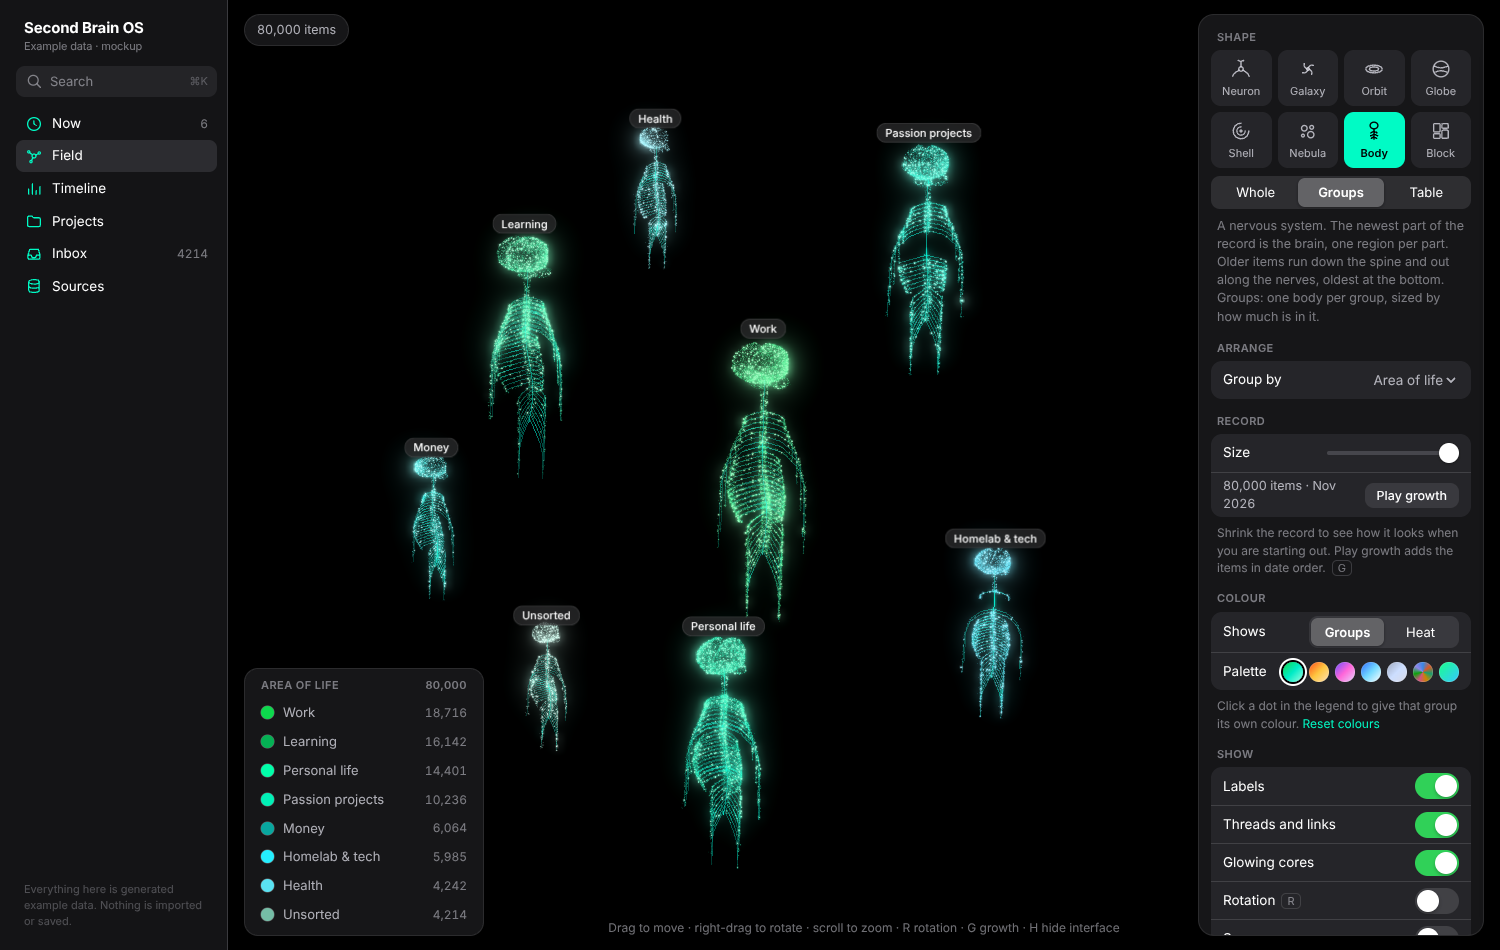
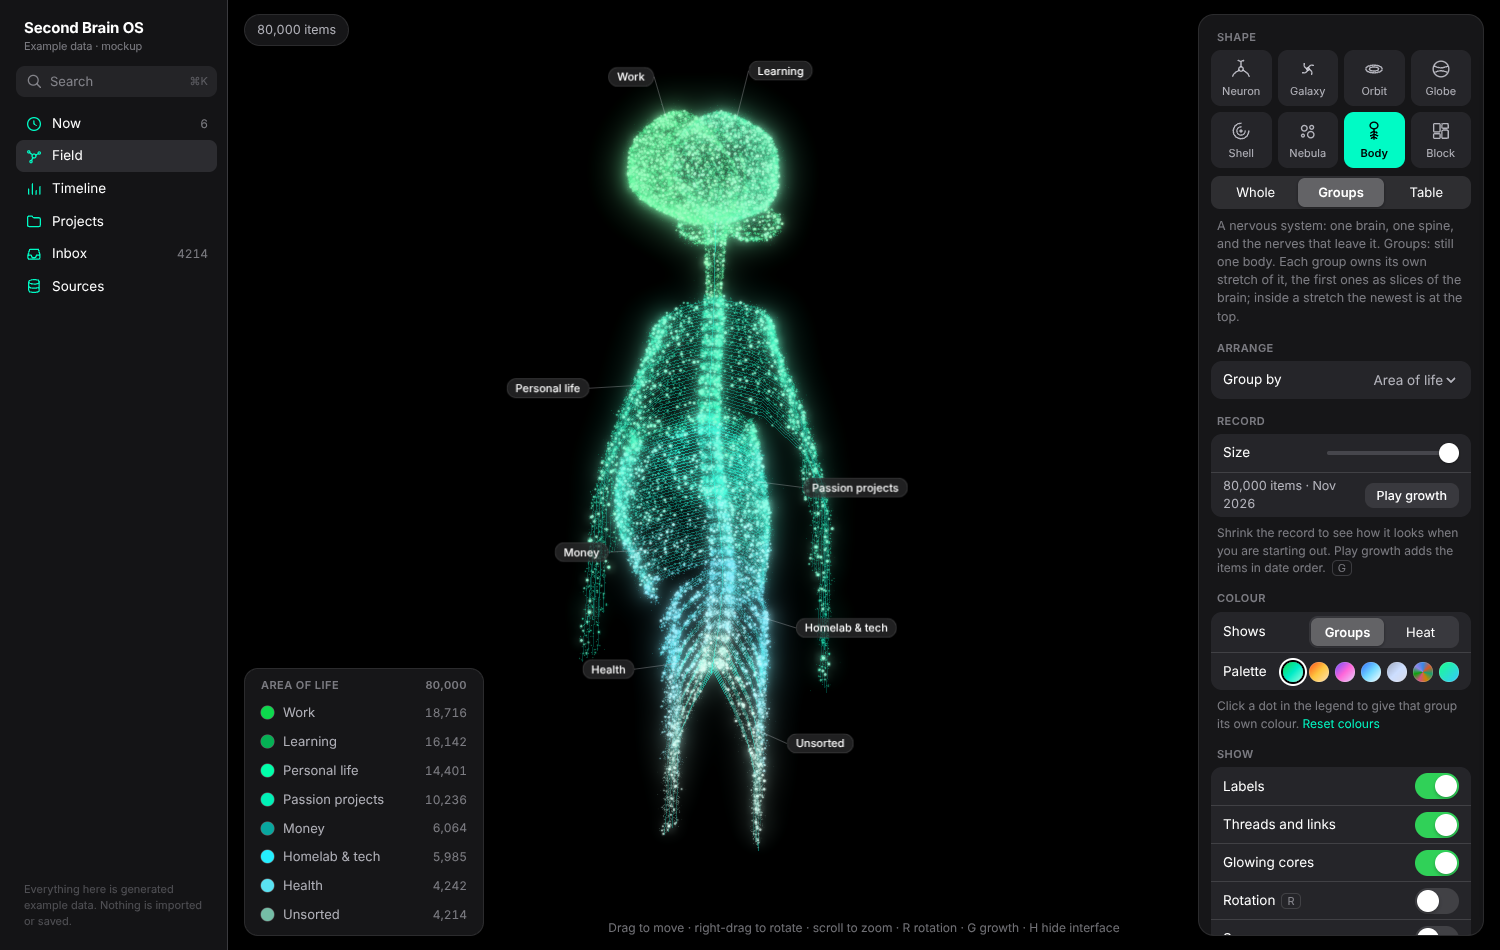
Second Brain OS mockup: Body is one body in every layout
Groups now gives each group its own stretch of the single body (leading
groups as slices of the brain, the rest down the spine). Table lays the
body flat as a chart: groups run down it, the second property runs
outward from the spine. Labels can be pinned with a line back to what
they name.

Claude-Session: https://claude.ai/code/session_01QQiybXZrdU5CyeFzxcWoFW

diff --git a/artifacts/second-brain-os.html b/artifacts/second-brain-os.html
@@ -573,27 +573,53 @@ const SH = {
     const stem = (f, o) => { const c = cen(0); o[0] = c[0]*f; o[1] = BY-0.1+(c[1]-BY+0.1)*f; o[2] = -0.05+(c[2]+0.05)*f; return o; }, q0 = [0, 0, 0], q1 = [0, 0, 0];
     for(let k=0;k<6;k++) seg(it, stem(k/6, q0).slice(), stem((k+1)/6, q1).slice(), 0.8);
     const has = new Uint8Array(NV*n); let vTop = NV;
-    for(let j=0;j<n;j++){ const d0 = fib(j, n), sp = n === 1 ? 9 : 0.3+0.95*Math.sqrt(P.share[j]);
-      for(const i of P.items[j]){
-        if(iTm[i] >= tCut){ const w = R(); let px = 0, py = BY, pz = 0;
+    const inBrain = (i, d0, sp, lo, hi) => { const w = R(); let px = 0, py = BY, pz = 0;
           if(w < 0.09){ const sd = R() < 0.5 ? -1 : 1, u = unit3([gauss(), gauss(), gauss()]), rr = 0.82+0.18*R(); px = sd*0.07+u[0]*0.085*rr; py = BY-0.115+Math.round(u[1]*0.05*rr*90)/90+gauss()*0.0015; pz = -0.14+u[2]*0.075*rr; if(px*sd < 0.004) px = sd*0.004; }      // cerebellum: two small leaves, finely layered
           else if(w < 0.13){ const f = R(), a = R()*TAU, rr = 0.034*(1-0.4*f)*(0.85+0.15*R()); stem(f, q0); px = q0[0]+Math.cos(a)*rr; py = q0[1]; pz = q0[2]+Math.sin(a)*rr; }                                          // brainstem
-          else for(let tr=0;tr<8;tr++){ let x = d0[0]+gauss()*sp, y = d0[1]*0.8+gauss()*sp, z = d0[2]+gauss()*sp; const l = Math.hypot(x, y, z) || 1; x /= l; y /= l; z /= l;                                  // cortex: a folded shell with two unequal halves; each part is a region of it
+          else for(let tr=0;tr<8;tr++){ let x, y, z; if(lo !== undefined){ x = lo+R()*(hi-lo); const rr = Math.sqrt(Math.max(0, 1-x*x)), ph = R()*TAU; y = rr*Math.cos(ph); z = rr*Math.sin(ph); } else { x = d0[0]+gauss()*sp; y = d0[1]*0.8+gauss()*sp; z = d0[2]+gauss()*sp; const l = Math.hypot(x, y, z) || 1; x /= l; y /= l; z /= l; }                                  // cortex: a folded shell with two unequal halves; each part is a region of it
             const sd = x < 0 ? -1 : 1, lump = 1+0.2*(vnoise(x*1.7+sd*13.7+3, y*1.7+5, z*1.7+8)-0.5), dip = 1-0.3*Math.exp(-(x*x)/0.02)*(y > 0 ? 1 : 0.3), nar = y < 0 ? 1-0.3*y*y : 1;
             const sx = x*0.2*(sd < 0 ? 1.05 : 0.97)*lump*nar, sy = y*0.17*(y < 0 ? 0.72+0.2*x*x : 1)*lump*dip, sz = z*0.25*lump*(1+0.06*sd*z);
             const nz = 0.6*vnoise(sx*22+sd*31.7, sy*22+5.2, sz*18+9.4)+0.4*vnoise(sx*47+3, sy*47+1, sz*40+7), rd = Math.min(Math.abs(nz-0.36), Math.abs(nz-0.5), Math.abs(nz-0.64)), deep = R() < 0.12, sh = deep ? 0.4+0.5*Math.sqrt(R()) : 0.95+0.05*R();
             px = sx*sh; if(Math.abs(px) < 0.015) px = sd*(0.015+Math.abs(gauss())*0.004); py = BY+sy*sh; pz = sz*sh+0.01; if(deep || rd >= 0.016 || R() > 0.95) break; }
-          put(i, it, px, py, pz); continue; }
-        const v = Math.min(NV-1, Math.floor((1-(iTm[i]-t0)/span)*NV)), q = R(); has[v*n+j] = 1; if(v < vTop) vTop = v; const g = n === 1 ? R() : j/n+R()*0.8/n, sd = R() < 0.5 ? -1 : 1;          // spine: one vertebra per stretch of time
+          put(i, it, px, py, pz); };
+    const inSpine = (i, v, g) => { const q = R(), sd = R() < 0.5 ? -1 : 1;
         if(q < 0.2){ const c = cen(v+R()*0.55), a = R()*TAU, rr = 0.024*(0.8+0.4*R())*(1+0.4*v/NV); put(i, it, c[0]+Math.cos(a)*rr, c[1]+gauss()*0.004, c[2]+Math.sin(a)*rr*0.8); }
         else if(q < 0.26){ const c = cen(v+R()*0.55), f = R(); put(i, it, c[0]+gauss()*0.004, c[1]-f*0.018, c[2]-0.03-f*0.04); }
-        else { root(v, sd, g, Math.pow(R(), 0.8), q0); put(i, it, q0[0]+gauss()*0.0035, q0[1]+gauss()*0.0035, q0[2]+gauss()*0.0035); } }
+        else { root(v, sd, g, Math.pow(R(), 0.8), q0); put(i, it, q0[0]+gauss()*0.0035, q0[1]+gauss()*0.0035, q0[2]+gauss()*0.0035); } };
+    if(it.mode === "groups" && n > 1){ const ord = [...Array(n).keys()]; if(S.by === "year") ord.sort((x, y) => P.ord[y]-P.ord[x]);      // still one body: each group owns its own stretch of it, the first ones in the brain
+      let k = 1, cum = 0, best = 9, tot = 0; for(let q=0;q<n-1;q++){ cum += P.share[ord[q]]; if(Math.abs(cum-0.4) < best){ best = Math.abs(cum-0.4); k = q+1; tot = cum; } }
+      let a = 0, xa = -1; ord.forEach((j, q) => { const items = P.items[j].slice().sort((x, y) => iTm[y]-iTm[x]), sh = P.share[j];
+        if(q < k){ const xb = q === k-1 ? 1 : xa+2*sh/tot, xm = (xa+xb)/2; for(const i of items) inBrain(i, null, 0, xa, xb); partLabel(it, P, j, xm*0.2, BY+0.15*Math.sqrt(Math.max(0, 1-xm*xm))+0.01, 0.06, {lead:W(it, xm*0.08, BY-0.12, 0)}); xa = xb; return; }      // brain: slices from left to right, sized by share
+        const b = a+sh/(1-tot), len = items.length; items.forEach((i, x) => { const tv = Math.min(NV-1e-3, (a+(x+R())/len*(b-a))*NV), v = Math.floor(tv); inSpine(i, v, tv-v); });      // spine: a stretch per group, newest at its top
+        const vm = Math.min(NV-1, Math.floor((a+b)/2*NV)), sd = (q-k) % 2 ? 1 : -1, tip = root(vm, sd, 0.5, 0.4, [0, 0, 0]); partLabel(it, P, j, tip[0], tip[1], tip[2]+0.03, {lead:W(it, 0, tip[1]+0.02, tip[2]), solid:true});
+        a = b; });
+      for(let v=0;v<NV;v++){ seg(it, cen(v), cen(v+1), 0.9); for(const g of [0.12, 0.37, 0.62, 0.87]) for(const sd of [-1, 1]){ let p = cen(v); p[1] -= g*DY; for(let q=1;q<=5;q++){ const e = root(v, sd, g, q/5, [0, 0, 0]); seg(it, p, e, 0.42-0.06*q); p = e; } } }
+      return; }
+    for(let j=0;j<n;j++){ const d0 = fib(j, n), sp = n === 1 ? 9 : 0.3+0.95*Math.sqrt(P.share[j]);
+      for(const i of P.items[j]){ if(iTm[i] >= tCut){ inBrain(i, d0, sp); continue; }
+        const v = Math.min(NV-1, Math.floor((1-(iTm[i]-t0)/span)*NV)); has[v*n+j] = 1; if(v < vTop) vTop = v; inSpine(i, v, n === 1 ? R() : j/n+R()*0.8/n); }      // spine: one vertebra per stretch of time
       partLabel(it, P, j, d0[0]*0.2, BY+d0[1]*0.8*0.17, d0[2]*0.25, {lead:W(it, 0, BY, 0)}); }
     for(let v=vTop;v<NV;v++){ seg(it, cen(v), cen(v+1), 0.9);                                     // a nerve is drawn only once it holds something
       for(let j=0;j<n;j++){ if(!has[v*n+j]) continue; for(const sd of [-1, 1]){ const g = n === 1 ? 0.5 : j/n; let p = cen(v); p[1] -= g*DY; for(let q=1;q<=5;q++){ const e = root(v, sd, g, q/5, [0, 0, 0]); seg(it, p, e, 0.42-0.06*q); p = e; } } } }
     for(let v=0;v<vTop;v++) seg(it, cen(v), cen(v+1), 0.9);
     if(it.whole){ const my = tm => MON[Math.floor(tm) % 12]+" "+(2021+Math.floor(tm/12)); labels.push({t:"Brain · since "+my(tCut), p:W(it, 0.3, BY+0.24, 0), c:"yr"});
       for(let yv=Math.ceil(t0/12);yv*12<tCut;yv++) labels.push({t:String(2021+yv), p:W(it, -0.42, 0.42-(1-(yv*12-t0)/span)*1.04, 0), c:"yr", right:true}); } },
+  bodyflat(it){ const g = GROUPS[S.by], ac = ACROSS[S.across], cnt = groupStats(), rows = [...Array(cnt.length).keys()].filter(k => cnt[k]); if(S.by === "year") rows.reverse(); else if(S.by !== "status") rows.sort((x, y) => cnt[y]-cnt[x]);      // one body laid flat: groups run down it, the second property runs outward from the spine
+    const cc = new Int32Array(ac.meta.length); for(const i of it.items) cc[ac.of(i)]++; const cols = [...Array(cc.length).keys()].filter(k => cc[k]), nr = rows.length, nc = cols.length, ri = new Int32Array(cnt.length), ci = new Int32Array(cc.length); rows.forEach((k, j) => ri[k] = j); cols.forEach((k, j) => ci[k] = j);
+    const sm = x => { x = clamp(x, 0, 1); return x*x*(3-2*x); }, YT = 0.925, YB = -1, M = 400, C = [it.cx, it.cy, it.cz, it.r];
+    const wOf = y => y > 0.56 ? Math.max(0.05, 0.215*Math.sqrt(Math.max(0, 1-Math.pow((y-0.745)/0.185, 2)))) : y > 0.44 ? 0.05 : y > 0.3 ? 0.05+0.28*sm((0.44-y)/0.14) : y > -0.3 ? 0.33-0.12*sm((0.3-y)/0.6) : y > -0.48 ? 0.21+0.04*sm((-0.3-y)/0.18) : 0.25-0.15*(-0.48-y)/0.52;      // half-width of the outline: head, neck, shoulders, waist, hips, legs
+    const gOf = y => y > -0.5 ? 0.012 : 0.012+0.035*sm((-0.5-y)/0.25), A = new Float32Array(M+1); for(let q=0;q<M;q++){ const y = YT+(YB-YT)*(q+0.5)/M; A[q+1] = A[q]+Math.max(0, wOf(y)-gOf(y)); }
+    const yAt = a => { let lo = 0, hi = M; while(hi-lo > 1){ const m = (lo+hi) >> 1; if(A[m] <= a) lo = m; else hi = m; } return YT+(YB-YT)*(lo+(a-A[lo])/Math.max(1e-9, A[lo+1]-A[lo]))/M; };      // rows take height in proportion to their share of the outline's area
+    const n = it.items.length, edge = [0]; let acc = 0; rows.forEach(k => { acc += cnt[k]/n; edge.push(Math.min(1, acc)*A[M]); });
+    for(const i of it.items){ const r = ri[g.of(i)], c = ci[ac.of(i)], sd = R() < 0.5 ? -1 : 1; let x = 0, y = 0;
+      for(let tr=0;tr<6;tr++){ y = yAt(edge[r]+R()*(edge[r+1]-edge[r])); const w = wOf(y), gp = gOf(y); x = gp+(c+R())/nc*(w-gp);
+        if(y <= 0.56){ if(R() < 0.72) y = Math.round(y/0.0125)*0.0125+gauss()*0.0012; break; }
+        const nz = 0.6*vnoise(x*sd*24+40, y*24, 7.3)+0.4*vnoise(x*sd*52+3, y*52, 1.7); if(Math.min(Math.abs(nz-0.36), Math.abs(nz-0.5), Math.abs(nz-0.64)) >= 0.014 || R() > 0.9) break; }
+      put(i, it, sd*x, y, gauss()*0.006); }
+    seg(it, [0, YT, 0], [0, -0.5, 0], 0.5); for(let r=1;r<nr;r++){ const y = yAt(edge[r]), w = wOf(y); seg(it, [-w, y, 0], [w, y, 0], 0.4); }
+    for(let c=1;c<=nc;c++) for(const sd of [-1, 1]){ let p = null; for(let q=0;q<=90;q++){ const y = YT+(YB-YT)*q/90, w = wOf(y), gp = gOf(y), e = [sd*(gp+c/nc*(w-gp)), y, 0]; if(p) seg(it, p, e, c === nc ? 0.42 : 0.13); p = e; } }
+    if(nr <= 30) rows.forEach((k, j) => { const y = yAt((edge[j]+edge[j+1])/2), w = wOf(y); if(nr > 12 && yAt(edge[j])-yAt(edge[j+1]) < 0.034) return; labels.push({t:g.meta[k][0], p:W(it, -w, y, 0), c:nr > 12 ? "yr" : "", lead:W(it, 0, y, 0), cen:C}); });
+    cols.forEach((k, j) => { const y = nc > 1 ? -0.82+1.08*j/(nc-1) : 0, w = wOf(y), gp = gOf(y); labels.push({t:ac.meta[k][0], p:W(it, gp+(j+0.5)/nc*(w-gp), y, 0), c:"yr", at:W(it, 0.47, y+0.025, 0), lead:W(it, 0, y, 0), cen:C}); }); },
   nebula(it){ const P = parts(it), n = P.n;                                                      // a loose cloud; each part is a clump tied to the centre
     for(let j=0;j<n;j++){ const sd = it.id*131+j*17, d = fib(j, n), dist = n === 1 ? 0 : 0.22+0.52*hr(sd+1), c = [d[0]*dist, d[1]*dist, d[2]*dist], rad = n === 1 ? 0.5 : 0.14+0.4*Math.sqrt(P.share[j]), ax = fib(hash(sd) % 97, 97);
       if(n > 1) seg(it, [0,0,0], c, 0.24);
@@ -604,6 +630,8 @@ const DISC = {galaxy:1, orbit:1}, CORE = {neuron:0.034, galaxy:0.05, nebula:0.03
 const mk = (items, cx, cy, cz, r, whole, tilt) => ({items, cx, cy, cz, r, whole, ct:Math.cos(tilt), st:Math.sin(tilt), id:insts.length});
 function buildView(){ const g = GROUPS[S.by], sh = S.shape, lay = S.lay; insts = []; labels = []; brId = 0;
   if(sh === "block") return ({whole:layoutTracks, groups:layoutMosaic, table:layoutMatrix})[lay]();
+  if(sh === "body" && lay !== "whole"){ const all = []; for(let i=0;i<NI;i++) if(RANK[i] < S.count) all.push(i); const sc = clamp(Math.pow(S.count/NI, 0.3), 0.2, 1), it = mk(all, 0, 0, 0, 62*sc, true, 0);      // a second brain is one body, however it is arranged
+    it.mode = lay; insts.push(it); viewAxis = [0, 1, 0]; if(lay === "table"){ SH.bodyflat(it); extent = {w:54*sc, h:66*sc, cy:-2.5*sc}; } else { SH.body(it); extent = {w:46*sc, h:71*sc, cy:-3*sc}; } return; }
   const disc = !!DISC[sh], tilt = disc && lay !== "whole" ? 1.0 : 0; viewAxis = [0, Math.cos(tilt), Math.sin(tilt)];                             // discs lie flat when alone and lean toward you in a grid
   if(lay === "whole"){ const all = []; for(let i=0;i<NI;i++) if(RANK[i] < S.count) all.push(i); const sc = clamp(Math.pow(S.count/NI, 0.3), 0.2, 1);      // a small record makes a small body
     const it = mk(all, 0, 0, 0, 62*sc, true, 0); insts.push(it); SH[sh](it); extent = disc ? {w:78*sc, h:62*sc, cy:0} : sh === "body" ? {w:34*sc, h:67*sc, cy:-5*sc} : {w:76*sc, h:74*sc, cy:0}; return; }
@@ -681,8 +709,9 @@ const SHAPES = [["neuron","Neuron","A glowing core with a fibre for each part. I
   ["globe","Globe","A ball where each part is a patch."],
   ["shell","Shell","Nested shells with a slice cut out, smallest part in the middle. Old at the bottom, new at the top."],
   ["nebula","Nebula","A loose cloud where each part is a clump tied to the centre."],
-  ["body","Body","A nervous system. The newest part of the record is the brain, one region per part. Older items run down the spine and out along the nerves, oldest at the bottom."],
+  ["body","Body","A nervous system: one brain, one spine, and the nerves that leave it."],
   ["block","Block","Flat blocks. Whole is a timeline, Groups is boxes inside boxes, Table is a grid of counts."]];
+const BODY_LAYS = { whole:"Whole: time runs down the body. The newest part of the record is the brain, one region per group. Older items run down the spine and out along the nerves, oldest at the bottom.", groups:"Groups: still one body. Each group owns its own stretch of it, the first ones as slices of the brain; inside a stretch the newest is at the top.", table:"Table: one body laid flat. Groups run down it, and a second property runs outward from the spine." };
 const LAYS = { whole:"Whole: everything in one body, with the groups as its parts.", groups:"Groups: one body per group, sized by how much is in it.", table:"Table: groups run down, and a second property runs across." };
 const GLYPH = { body:'<ellipse cx="12" cy="6" rx="4.2" ry="3.6"/><path d="M12 9.6V21M12 12.5l-3.5 1.5M12 12.5l3.5 1.5M12 15.5l-4 1.8M12 15.5l4 1.8M12 18.5l-3 1.5M12 18.5l3 1.5"/>', neuron:'<circle cx="12" cy="12" r="2.4"/><path d="M12 9.6V4M9.8 13.2 4.5 17M14.2 13.2 19.5 17M12 4 9 2.5M12 4l3-1.5M4.5 17 3 20M19.5 17l1.5 3"/>', galaxy:'<path d="M12 12c0-3 3-5 6-4M12 12c0 3-3 5-6 4M12 12c3 0 5 3 4 6M12 12c-3 0-5-3-4-6"/><circle cx="12" cy="12" r="1.3"/>', orbit:'<ellipse cx="12" cy="12" rx="9" ry="4.2"/><ellipse cx="12" cy="12" rx="5" ry="2.2"/>', globe:'<circle cx="12" cy="12" r="8.5"/><path d="M5 9c4 2 10 2 14 0M5.5 15.5c4-2 9-2 13 0"/>', shell:'<path d="M12 3.5A8.5 8.5 0 1 0 20.5 12"/><path d="M12 7.5A4.5 4.5 0 1 0 16.5 12"/><circle cx="12" cy="12" r="1"/>', nebula:'<circle cx="8" cy="9" r="3"/><circle cx="16" cy="8" r="2"/><circle cx="15" cy="16" r="3.4"/><circle cx="6.5" cy="17" r="1.5"/>', block:'<rect x="4" y="4" width="7" height="9" rx="1.2"/><rect x="13" y="4" width="7" height="5" rx="1.2"/><rect x="13" y="11" width="7" height="9" rx="1.2"/><rect x="4" y="15" width="7" height="5" rx="1.2"/>' };
 let T = 1;                                                // transition progress
@@ -735,7 +764,7 @@ function applyLayout(animate){
   for(let d=0;d<ND;d++) pCen.copyWithin((DB+d)*4, (d % NI)*4, (d % NI)*4+4); for(let h=0;h<NH;h++) pCen.copyWithin((HB+h)*4, hPar[h]*4, hPar[h]*4+4);
   for(let i=0;i<NI;i++) pBirth[i] = RANK[i] < S.count ? RANK[i]/S.count : 9; for(let d=0;d<ND;d++) pBirth[DB+d] = pBirth[d % NI]; for(let h=0;h<NH;h++) pBirth[HB+h] = pBirth[hPar[h]];
   buildWeb(); colourize(); fillWeb(); if(!animate || reduced) pFrom.set(pTo); T = animate && !reduced ? 0 : 1; uploadAll(); buildLabels(); renderLegend(); homeCam(false); crowdG = crowd();
-  $("#formNote").textContent = SHAPES.find(x => x[0] === S.shape)[2]+" "+LAYS[S.lay];
+  $("#formNote").textContent = SHAPES.find(x => x[0] === S.shape)[2]+" "+(S.shape === "body" ? BODY_LAYS : LAYS)[S.lay];
   $("#forceNote").textContent = S.shape === "block" ? "Forces do not move flat blocks." : S.shape === "body" ? "The Body does not swirl. The other forces still apply." : "Each body moves about its own centre.";
   $("#bHint").textContent = "Drag to move · right-drag to rotate · scroll to zoom · R rotation · G growth · H hide interface";
 }
@@ -926,8 +955,9 @@ function placeLabels(){ const show = S.labels && T >= 1, placed = [], H = 19;
     if(!show || tp[2] < 0){ e.style.opacity = 0; if(ld) ld.style.opacity = 0; continue; }
     if(!l.w) l.w = e.offsetWidth || 60; const ax = tp[0], ay = tp[1]; let x, y = ay-H/2, fade = 1, dx = 1, dy = 0;
     if(l.lead){ project(l.lead[0], l.lead[1], l.lead[2], tc); dx = ax-tc[0]; dy = ay-tc[1]; const n = Math.hypot(dx, dy) || 1; dx /= n; dy /= n; if(Math.abs(dx) < 0.25){ dx = dx < 0 ? -0.25 : 0.25; }
-      if(tp[2] > tc[2]+2) fade = 0.26;                                   // its region is on the far side
-      x = dx >= 0 ? ax+dx*46 : ax+dx*46-l.w; y = ay+dy*46-H/2; }
+      if(tp[2] > tc[2]+2 && !l.solid) fade = 0.26;                                   // its region is on the far side
+      x = dx >= 0 ? ax+dx*46 : ax+dx*46-l.w; y = ay+dy*46-H/2;
+      if(l.at){ project(l.at[0], l.at[1], l.at[2], tc); dx = tc[0] >= ax ? 1 : -1; dy = 0; x = dx > 0 ? tc[0] : tc[0]-l.w; y = tc[1]-H/2; } }      // a label pinned to its own spot, with a line back to what it names
     else x = l.right ? ax-l.w : l.left ? ax : ax-l.w/2;
     for(let tr=0;tr<10;tr++){ let hit = null; for(const q of placed) if(x < q.x+q.w+4 && x+l.w+4 > q.x && y < q.y+H+3 && y+H+3 > q.y){ hit = q; break; }      // nudge a label that would sit on another one
       if(!hit) break; y = (dy < -0.15 || (tr & 1 && dy <= 0.15)) ? hit.y-H-4 : hit.y+H+4; }

diff --git a/artifacts/AUDIT.md b/artifacts/AUDIT.md
@@ -453,7 +453,7 @@ you want to assign them by hand.
 
 Added to `second-brain-os.html`:
 
-- **Body shape** (eighth shape, works in Whole, Groups and Table). Brain, cerebellum, brainstem, 30 vertebrae, arm nerves from the neck, ribs from the chest, leg nerves from the base. Time runs down the body.
+- **Body shape** (eighth shape, works in Whole, Groups and Table, and is one body in all three). Brain, cerebellum, brainstem, 30 vertebrae, arm nerves from the neck, ribs from the chest, leg nerves from the base. Time runs down the body.
 - **Forces group**: swirl (rigid for Neuron, Orbit, Shell; faster near the centre for Galaxy, Globe, Nebula), turbulence, breathe, spread. Every sprite carries its body's centre and radius, and the forces are computed in the vertex shader. The same maths runs in JavaScript for hover, selection ring, labels and link endpoints.
 - **Slice viewer** for Scan: the slab drawn straight on in a small panel, with count and date range.
 
@@ -483,4 +483,13 @@ Still rough:
 - Swirl does nothing on Body or Block; the panel says so, but the slider stays enabled.
 - Scan position ignores the forces: with high spread or turbulence the lit slab is slightly off the drawn plane.
 - Frame rate is still unmeasured on a real GPU.
+
+### Follow-up: one body, not many
+
+Body in Groups and Table first drew one small figure per group (8 figures, or 35 in the table). That contradicts the idea of a second brain, so both now draw a single body:
+
+- **Groups**: groups are ordered by size (years by date). The leading groups whose share is closest to 40% become left-to-right slices of the brain; the rest each take a stretch of the spine in proportion to their share, newest item at the top of the stretch.
+- **Table**: a flat outline (head, neck, shoulders, waist, legs). Rows take height in proportion to their share of the outline's area; columns are nested bands from the spine outward, mirrored left and right. Rows thinner than a label are named in the legend only.
+
+The other shapes still draw one body per group in Groups and Table.
 

diff --git a/artifacts/README.md b/artifacts/README.md
@@ -13,7 +13,7 @@ outer halo.
 
 - **Now**: open sessions and one card per project (waiting on you, running, stalled, done).
 - **Field**: every item is a speck. Pick a **shape** (Neuron, Galaxy, Orbit, Globe, Shell, Nebula, Body, Block) and a **layout** (Whole, Groups, Table); every shape works in every layout. Group by area, project, source, type, status or year.
-- **Body**: a nervous system. The newest 40% of the record is the brain (one region per group, plus cerebellum and brainstem); older items run down the spine and out along the nerves, one vertebra per stretch of time, oldest at the bottom. A nerve is drawn only once it holds something.
+- **Body**: a nervous system, and always one body. *Whole*: time runs down it; the newest 40% of the record is the brain (one region per group, plus cerebellum and brainstem), older items run down the spine and out along the nerves, oldest at the bottom. *Groups*: each group owns its own stretch of the same body, the first ones as slices of the brain. *Table*: the body laid flat as a chart; groups run down it and a second property runs outward from the spine.
 - **Colour**: palettes (Aurora, Ember, Orchid, Glacier, Starlight, Spectrum), a custom two-colour palette, a colour of your own for any group from the legend, and a Heat mode. The look is remembered in the browser.
 - **Record size**: shrink the record from 80,000 items down to 100 to see how it looks when you are starting out. **Play growth** (`G`) adds the items in date order, and `H` hides the interface for recording.
 - **Scan**: a slice that sweeps through the picture and lights only the items inside it. A slice viewer shows that slice straight on, with its item count and date range. The whole Body opens with the scan running.
